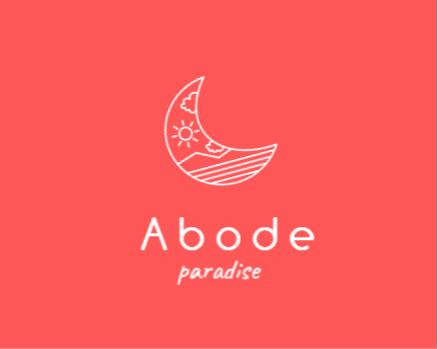
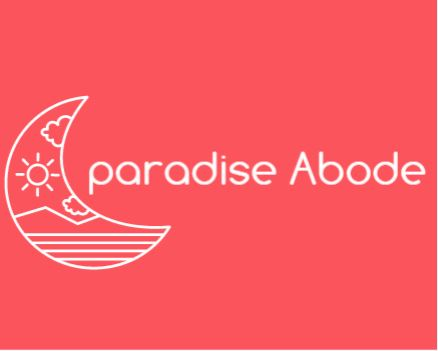
lastBeforeSubmit

Changed region(s): [[0.0, 0.2006, 0.9795, 0.7736], [0.0, 0.9742, 1.0, 1.0], [0.3858, 0.745, 0.5936, 0.8309]]

diff --git a/frontend/src/components/DeleteReviewModal/index.js b/frontend/src/components/DeleteReviewModal/index.js
@@ -1,14 +1,12 @@
 import React, { useEffect } from 'react';
 import { useModal } from '../../context/Modal'
 import { useDispatch } from 'react-redux';
-import { useHistory } from 'react-router-dom';
 import { DeleteReview } from '../../store/reviews';
 import { getReviewsBySpotThunk } from '../../store/reviews';
 
 function DeleteReviewModal({prop}) {
     const {closeModal,setModalContent} = useModal()
     const dispatch = useDispatch()
-    const history = useHistory()
     const id = prop.id
     const spotId = prop.spotId
 
@@ -22,14 +20,18 @@ function DeleteReviewModal({prop}) {
 
   return (
     <div className="modal">
-      <div className="modal-content">
-        <h2>Deleting Review: {prop?.name}</h2>
-        <p>Are you sure you want to delete this Review?</p>
-        <button onClick={handleDeleteClick}>Yes</button>
-        <button onClick={closeModal}>Cancel</button>
+    <div className="modal-content">
+      <div className='deleteModalStuff'>
+        <h2>Confirm Delete</h2>
+        <p>Are you sure you want to delete this review?</p>
+        <div className='yesAndno'>
+          <button className='yesBtn' onClick={handleDeleteClick}>{"Yes (Delete Review)"}</button>
+          <button className='noBtn' onClick={closeModal}>{"No (Keep Review)"}</button>
+        </div>
       </div>
     </div>
-  );
+  </div>
+);
 }
 
 export default DeleteReviewModal;

diff --git a/frontend/src/components/Navigation/index.js b/frontend/src/components/Navigation/index.js
@@ -12,11 +12,12 @@ function Navigation({ isLoaded }) {
     <nav>
       <div className='navbar'>
         <div className='logoHome'>
-          <NavLink exact to="/"><img src="/ParadisLogo.JPG" className='logo'></img></NavLink>
+          <NavLink exact to="/"><img src="/paradisAbode.JPG" className='logo'></img>
+          </NavLink>
         </div>
         <div className='ProfileButton'>
           <div className='CreateaNewSpotDiv'>
-        {sessionUser && <NavLink to="/spots/new">Create a New Spot</NavLink>}
+            {sessionUser && <NavLink to="/spots/new">Create a New Spot</NavLink>}
           </div>
           {isLoaded && (
             <ProfileButton user={sessionUser} />

diff --git a/frontend/public/index.html b/frontend/public/index.html
@@ -5,7 +5,7 @@
     <meta name="viewport" content="width=device-width, initial-scale=1" />
     <meta name="theme-color" content="#000000" />
     <link rel="manifest" href="%PUBLIC_URL%/manifest.json" />
-    <link rel="icon" type="image/x-icon" href="./ParadisLogo.JPG">
+    <link rel="icon" type="image/x-icon" href="./favicon.ico">
     <script src="https://kit.fontawesome.com/75447ff93e.js" crossorigin="anonymous"></script>
     <title>paradise Abode</title>
   </head>

diff --git a/frontend/src/components/Navigation/ProfileButton.css b/frontend/src/components/Navigation/ProfileButton.css
@@ -10,7 +10,7 @@
     flex-wrap: wrap;
     padding: 0 10px;
     justify-content: center;
-    text-align: center; /* Added */
+    text-align: center;
 
 }
 .emailLine {
@@ -41,7 +41,7 @@
 }
 .LittleLoginBar{
     position: absolute;
-    top: 10%;
+    top: 13%;
     left: 91%;
     border: black 1px solid;
     background-color: white;

diff --git a/frontend/src/components/Navigation/Navigation.css b/frontend/src/components/Navigation/Navigation.css
@@ -2,9 +2,9 @@
     visibility: hidden;
 }
 .logo {
-   height: 15%;
-   width: 20%;
-   border: 1px white solid;
+   height: auto;
+   width: 40%;
+   border: 3px black solid;
    border-radius: 50px;
 }
 .navbar {
